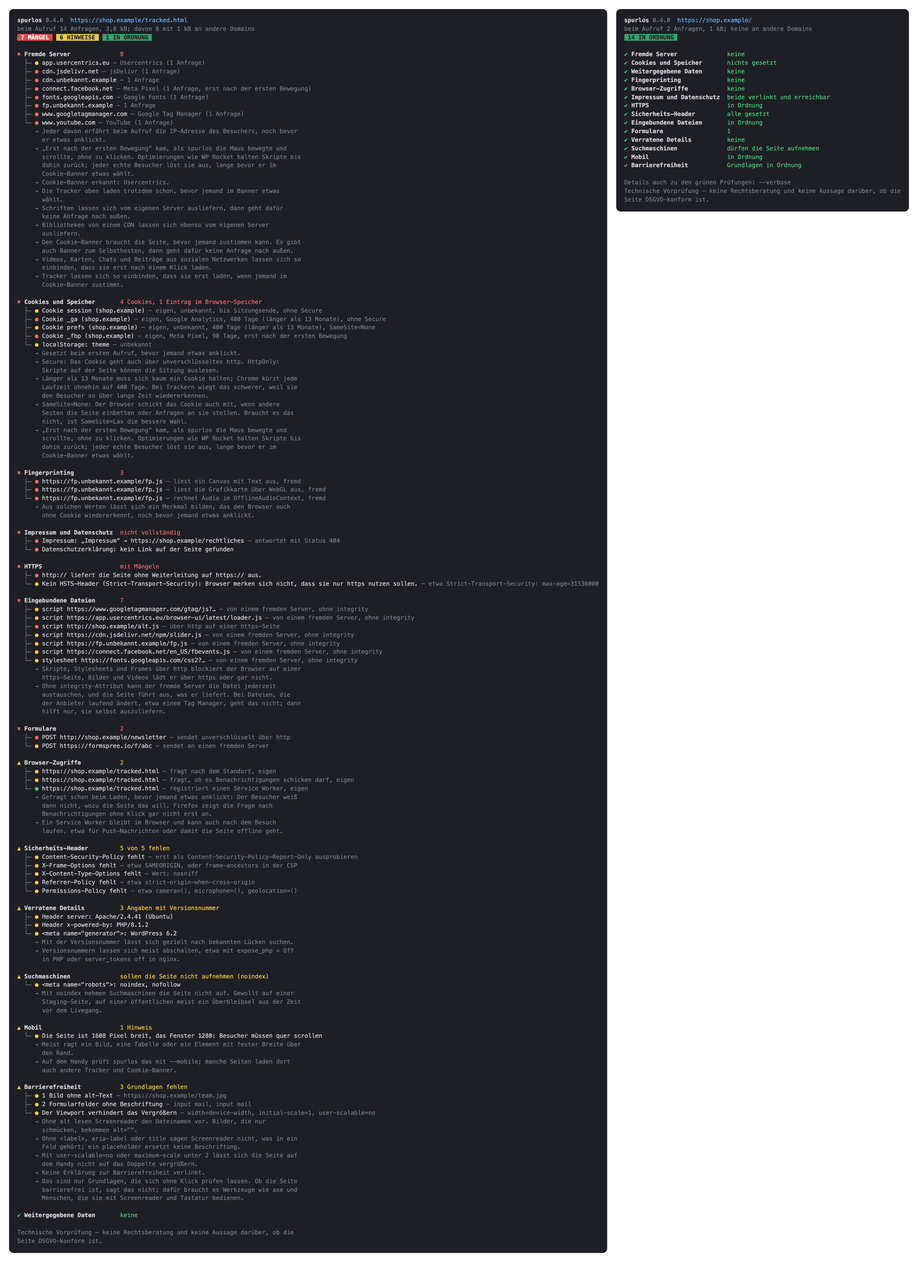
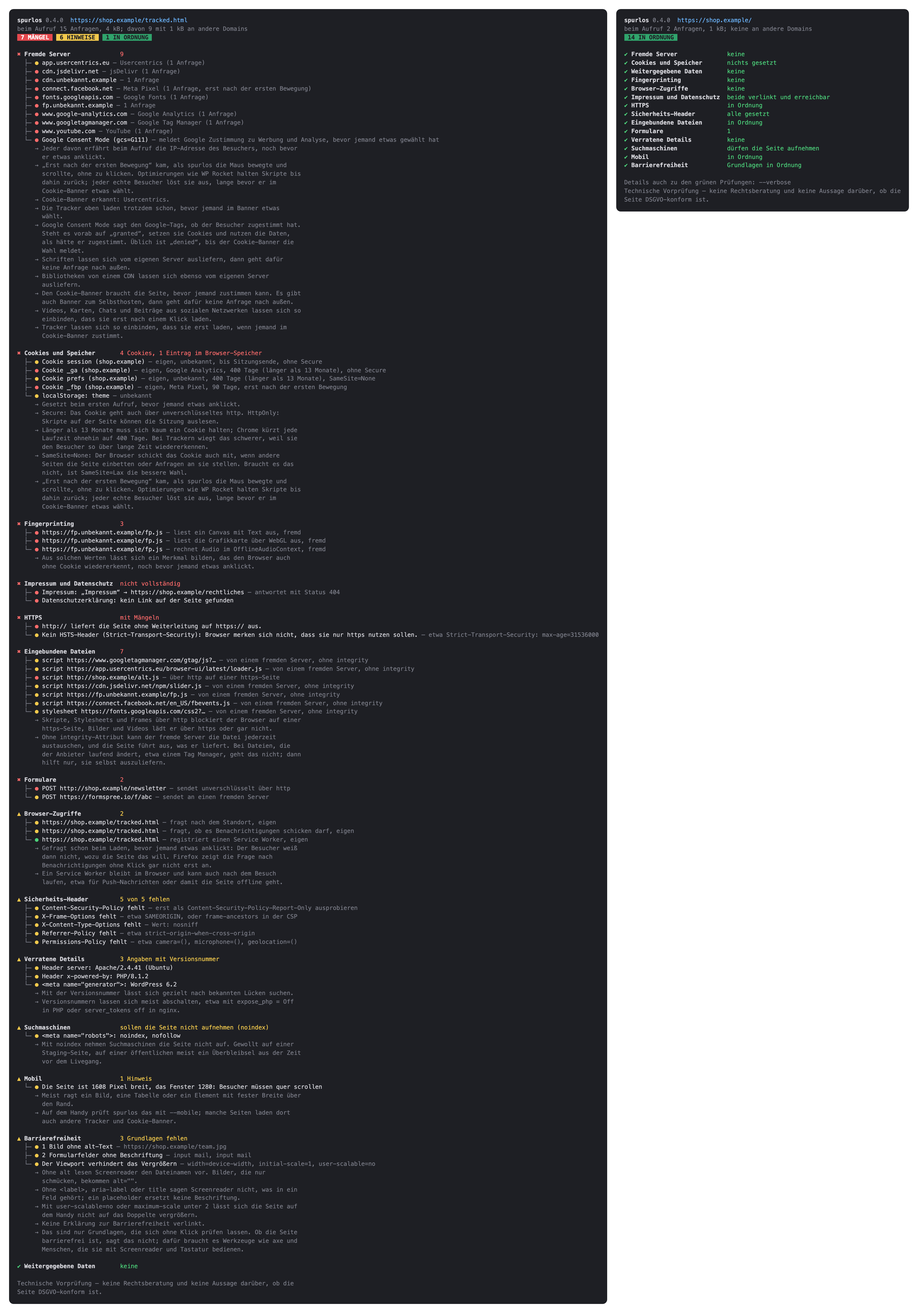
Google Consent Mode: meldet eine Anfrage der Google-Tags vor jedem Klick Zustimmung (gcs=G101, G110, G111), ist das ein roter Befund bei Fremde Server; G100 als Hinweis; in --json als consentMode

Changed region(s): [[0.0311, 0.0, 0.4042, 0.9993], [0.6841, 0.0, 0.9951, 0.1874]]

diff --git a/examples/mit-maengeln.html b/examples/mit-maengeln.html
@@ -50,8 +50,8 @@ footer { margin-top: 28px; padding-top: 12px; border-top: 1px solid var(--line);
 <div class="top">
 <div>
 <h1>https://shop.example/tracked.html</h1>
-<p class="meta">geprüft am 22. November 2026 um 13:15 MEZ</p>
-<p class="meta">beim Aufruf 14 Anfragen, 3,8 kB; davon 8 mit 1 kB an andere Domains</p>
+<p class="meta">geprüft am 22. November 2026 um 13:17 MEZ</p>
+<p class="meta">beim Aufruf 15 Anfragen, 4 kB; davon 9 mit 1 kB an andere Domains</p>
 </div>
 <p class="brand"><svg class="logo light" xmlns="http://www.w3.org/2000/svg" viewBox="0 0 5255.92 1056" role="img" aria-label="spurlos"><title>spurlos</title><g transform="translate(-60.71 -70.67) scale(18.14)"><circle cx="28" cy="28" r="20" fill="none" stroke="#1e1f24" stroke-width="5.5"/><line x1="42.5" y1="42.5" x2="57" y2="57" stroke="#1e1f24" stroke-width="8" stroke-linecap="round"/><circle cx="17.5" cy="28" r="4.6" fill="#e5484d"/><circle cx="28" cy="28" r="4.6" fill="#e0a800"/><circle cx="38.5" cy="28" r="4.6" fill="#1f9d55"/></g><path transform="translate(1195.92 846)" fill="#1e1f24" d="M277 10Q209 10 158 -11.5Q107 -33 78.5 -71Q50 -109 50 -160L200 -160Q200 -136 221.5 -121.5Q243 -107 277 -107L321 -107Q362 -107 383.5 -122Q405 -137 405 -164Q405 -189 386 -202.5Q367 -216 327 -221L263 -229Q160 -242 113 -279Q66 -316 66 -392Q66 -472 121 -516Q176 -560 282 -560L320 -560Q421 -560 481 -516Q541 -472 541 -398L391 -398Q391 -418 371.5 -430.5Q352 -443 320 -443L282 -443Q245 -443 228 -430.5Q211 -418 211 -393Q211 -370 226.5 -358Q242 -346 276 -341L345 -332Q449 -319 499.5 -280Q550 -241 550 -164Q550 -80 492 -35Q434 10 321 10ZM646 180L646 -550L791 -550L791 -445L794 -445Q801 -491 830 -521Q869 -560 937 -560Q1020 -560 1070 -501.5Q1120 -443 1120 -345L1120 -205Q1120 -140 1097.5 -91.5Q1075 -43 1034 -16.5Q993 10 937 10Q869 10 830 -30Q801 -59 794 -105L791 -105L796 30L796 180ZM883 -120Q925 -120 947.5 -143.5Q970 -167 970 -210L970 -340Q970 -384 947.5 -407Q925 -430 883 -430Q842 -430 819 -406.5Q796 -383 796 -340L796 -210Q796 -167 819 -143.5Q842 -120 883 -120ZM1460 10Q1349 10 1286.5 -50Q1224 -110 1224 -214L1224 -550L1374 -550L1374 -215Q1374 -169 1396 -144.5Q1418 -120 1460 -120Q1501 -120 1523.5 -144.5Q1546 -169 1546 -215L1546 -550L1696 -550L1696 -214Q1696 -109 1633 -49.5Q1570 10 1460 10ZM1822 0L1822 -550L1962 -550L1962 -445L1964 -445Q1973 -488 1998 -515Q2039 -560 2118 -560Q2209 -560 2259.5 -505Q2310 -450 2310 -350L2310 -305L2150 -305L2150 -340Q2150 -385 2125.5 -410Q2101 -435 2060 -435Q2017 -435 1994.5 -410Q1972 -385 1972 -340L1972 0ZM2710 0Q2652 0 2608 -24.5Q2564 -49 2539.5 -93Q2515 -137 2515 -195L2515 -595L2345 -595L2345 -730L2665 -730L2665 -195Q2665 -168 2681.5 -151.5Q2698 -135 2725 -135L2885 -135L2885 0ZM3200 10Q3127 10 3073 -17.5Q3019 -45 2989.5 -94.5Q2960 -144 2960 -210L2960 -340Q2960 -406 2989.5 -455.5Q3019 -505 3073 -532.5Q3127 -560 3200 -560Q3274 -560 3327.5 -532.5Q3381 -505 3410.5 -455.5Q3440 -406 3440 -340L3440 -210Q3440 -144 3410.5 -94.5Q3381 -45 3327.5 -17.5Q3274 10 3200 10ZM3200 -120Q3244 -120 3267 -143.5Q3290 -167 3290 -210L3290 -340Q3290 -384 3267 -407Q3244 -430 3200 -430Q3157 -430 3133.5 -407Q3110 -384 3110 -340L3110 -210Q3110 -167 3133.5 -143.5Q3157 -120 3200 -120ZM3757 10Q3689 10 3638 -11.5Q3587 -33 3558.5 -71Q3530 -109 3530 -160L3680 -160Q3680 -136 3701.5 -121.5Q3723 -107 3757 -107L3801 -107Q3842 -107 3863.5 -122Q3885 -137 3885 -164Q3885 -189 3866 -202.5Q3847 -216 3807 -221L3743 -229Q3640 -242 3593 -279Q3546 -316 3546 -392Q3546 -472 3601 -516Q3656 -560 3762 -560L3800 -560Q3901 -560 3961 -516Q4021 -472 4021 -398L3871 -398Q3871 -418 3851.5 -430.5Q3832 -443 3800 -443L3762 -443Q3725 -443 3708 -430.5Q3691 -418 3691 -393Q3691 -370 3706.5 -358Q3722 -346 3756 -341L3825 -332Q3929 -319 3979.5 -280Q4030 -241 4030 -164Q4030 -80 3972 -35Q3914 10 3801 10Z"/></svg>
 <svg class="logo dark" xmlns="http://www.w3.org/2000/svg" viewBox="0 0 5255.92 1056" role="img" aria-label="spurlos"><title>spurlos</title><g transform="translate(-60.71 -70.67) scale(18.14)"><circle cx="28" cy="28" r="20" fill="none" stroke="#e9e9ee" stroke-width="5.5"/><line x1="42.5" y1="42.5" x2="57" y2="57" stroke="#e9e9ee" stroke-width="8" stroke-linecap="round"/><circle cx="17.5" cy="28" r="4.6" fill="#ff6b6b"/><circle cx="28" cy="28" r="4.6" fill="#f2c94c"/><circle cx="38.5" cy="28" r="4.6" fill="#4cd17a"/></g><path transform="translate(1195.92 846)" fill="#e9e9ee" d="M277 10Q209 10 158 -11.5Q107 -33 78.5 -71Q50 -109 50 -160L200 -160Q200 -136 221.5 -121.5Q243 -107 277 -107L321 -107Q362 -107 383.5 -122Q405 -137 405 -164Q405 -189 386 -202.5Q367 -216 327 -221L263 -229Q160 -242 113 -279Q66 -316 66 -392Q66 -472 121 -516Q176 -560 282 -560L320 -560Q421 -560 481 -516Q541 -472 541 -398L391 -398Q391 -418 371.5 -430.5Q352 -443 320 -443L282 -443Q245 -443 228 -430.5Q211 -418 211 -393Q211 -370 226.5 -358Q242 -346 276 -341L345 -332Q449 -319 499.5 -280Q550 -241 550 -164Q550 -80 492 -35Q434 10 321 10ZM646 180L646 -550L791 -550L791 -445L794 -445Q801 -491 830 -521Q869 -560 937 -560Q1020 -560 1070 -501.5Q1120 -443 1120 -345L1120 -205Q1120 -140 1097.5 -91.5Q1075 -43 1034 -16.5Q993 10 937 10Q869 10 830 -30Q801 -59 794 -105L791 -105L796 30L796 180ZM883 -120Q925 -120 947.5 -143.5Q970 -167 970 -210L970 -340Q970 -384 947.5 -407Q925 -430 883 -430Q842 -430 819 -406.5Q796 -383 796 -340L796 -210Q796 -167 819 -143.5Q842 -120 883 -120ZM1460 10Q1349 10 1286.5 -50Q1224 -110 1224 -214L1224 -550L1374 -550L1374 -215Q1374 -169 1396 -144.5Q1418 -120 1460 -120Q1501 -120 1523.5 -144.5Q1546 -169 1546 -215L1546 -550L1696 -550L1696 -214Q1696 -109 1633 -49.5Q1570 10 1460 10ZM1822 0L1822 -550L1962 -550L1962 -445L1964 -445Q1973 -488 1998 -515Q2039 -560 2118 -560Q2209 -560 2259.5 -505Q2310 -450 2310 -350L2310 -305L2150 -305L2150 -340Q2150 -385 2125.5 -410Q2101 -435 2060 -435Q2017 -435 1994.5 -410Q1972 -385 1972 -340L1972 0ZM2710 0Q2652 0 2608 -24.5Q2564 -49 2539.5 -93Q2515 -137 2515 -195L2515 -595L2345 -595L2345 -730L2665 -730L2665 -195Q2665 -168 2681.5 -151.5Q2698 -135 2725 -135L2885 -135L2885 0ZM3200 10Q3127 10 3073 -17.5Q3019 -45 2989.5 -94.5Q2960 -144 2960 -210L2960 -340Q2960 -406 2989.5 -455.5Q3019 -505 3073 -532.5Q3127 -560 3200 -560Q3274 -560 3327.5 -532.5Q3381 -505 3410.5 -455.5Q3440 -406 3440 -340L3440 -210Q3440 -144 3410.5 -94.5Q3381 -45 3327.5 -17.5Q3274 10 3200 10ZM3200 -120Q3244 -120 3267 -143.5Q3290 -167 3290 -210L3290 -340Q3290 -384 3267 -407Q3244 -430 3200 -430Q3157 -430 3133.5 -407Q3110 -384 3110 -340L3110 -210Q3110 -167 3133.5 -143.5Q3157 -120 3200 -120ZM3757 10Q3689 10 3638 -11.5Q3587 -33 3558.5 -71Q3530 -109 3530 -160L3680 -160Q3680 -136 3701.5 -121.5Q3723 -107 3757 -107L3801 -107Q3842 -107 3863.5 -122Q3885 -137 3885 -164Q3885 -189 3866 -202.5Q3847 -216 3807 -221L3743 -229Q3640 -242 3593 -279Q3546 -316 3546 -392Q3546 -472 3601 -516Q3656 -560 3762 -560L3800 -560Q3901 -560 3961 -516Q4021 -472 4021 -398L3871 -398Q3871 -418 3851.5 -430.5Q3832 -443 3800 -443L3762 -443Q3725 -443 3708 -430.5Q3691 -418 3691 -393Q3691 -370 3706.5 -358Q3722 -346 3756 -341L3825 -332Q3929 -319 3979.5 -280Q4030 -241 4030 -164Q4030 -80 3972 -35Q3914 10 3801 10Z"/></svg>
@@ -59,7 +59,7 @@ footer { margin-top: 28px; padding-top: 12px; border-top: 1px solid var(--line);
 </div>
 <p class="summary"><span class="badge red">7 Mängel</span> <span class="badge yellow">6 Hinweise</span> <span class="badge green">1 in Ordnung</span></p>
 </header>
-<details class="check red" open><summary class="head"><span class="mark">✖</span><span class="title">Fremde Server</span><span class="value">8</span></summary><ul><li class="yellow">app.usercentrics.eu<span class="detail"> – Usercentrics (1 Anfrage)</span></li><li class="red">cdn.jsdelivr.net<span class="detail"> – jsDelivr (1 Anfrage)</span></li><li class="red">cdn.unbekannt.example<span class="detail"> – 1 Anfrage</span></li><li class="red">connect.facebook.net<span class="detail"> – Meta Pixel (1 Anfrage, erst nach der ersten Bewegung)</span></li><li class="red">fonts.googleapis.com<span class="detail"> – Google Fonts (1 Anfrage)</span></li><li class="red">fp.unbekannt.example<span class="detail"> – 1 Anfrage</span></li><li class="red">www.googletagmanager.com<span class="detail"> – Google Tag Manager (1 Anfrage)</span></li><li class="red">www.youtube.com<span class="detail"> – YouTube (1 Anfrage)</span></li></ul><p class="note">Jeder davon erfährt beim Aufruf die IP-Adresse des Besuchers, noch bevor er etwas anklickt.</p><p class="note">„Erst nach der ersten Bewegung“ kam, als spurlos die Maus bewegte und scrollte, ohne zu klicken. Optimierungen wie WP Rocket halten Skripte bis dahin zurück; jeder echte Besucher löst sie aus, lange bevor er im Cookie-Banner etwas wählt.</p><p class="note">Cookie-Banner erkannt: Usercentrics.</p><p class="note">Die Tracker oben laden trotzdem schon, bevor jemand im Banner etwas wählt.</p><p class="note">Schriften lassen sich vom eigenen Server ausliefern, dann geht dafür keine Anfrage nach außen.</p><p class="note">Bibliotheken von einem CDN lassen sich ebenso vom eigenen Server ausliefern.</p><p class="note">Den Cookie-Banner braucht die Seite, bevor jemand zustimmen kann. Es gibt auch Banner zum Selbsthosten, dann geht dafür keine Anfrage nach außen.</p><p class="note">Videos, Karten, Chats und Beiträge aus sozialen Netzwerken lassen sich so einbinden, dass sie erst nach einem Klick laden.</p><p class="note">Tracker lassen sich so einbinden, dass sie erst laden, wenn jemand im Cookie-Banner zustimmt.</p></details>
+<details class="check red" open><summary class="head"><span class="mark">✖</span><span class="title">Fremde Server</span><span class="value">9</span></summary><ul><li class="yellow">app.usercentrics.eu<span class="detail"> – Usercentrics (1 Anfrage)</span></li><li class="red">cdn.jsdelivr.net<span class="detail"> – jsDelivr (1 Anfrage)</span></li><li class="red">cdn.unbekannt.example<span class="detail"> – 1 Anfrage</span></li><li class="red">connect.facebook.net<span class="detail"> – Meta Pixel (1 Anfrage, erst nach der ersten Bewegung)</span></li><li class="red">fonts.googleapis.com<span class="detail"> – Google Fonts (1 Anfrage)</span></li><li class="red">fp.unbekannt.example<span class="detail"> – 1 Anfrage</span></li><li class="red">www.google-analytics.com<span class="detail"> – Google Analytics (1 Anfrage)</span></li><li class="red">www.googletagmanager.com<span class="detail"> – Google Tag Manager (1 Anfrage)</span></li><li class="red">www.youtube.com<span class="detail"> – YouTube (1 Anfrage)</span></li><li class="red">Google Consent Mode (gcs=G111)<span class="detail"> – meldet Google Zustimmung zu Werbung und Analyse, bevor jemand etwas gewählt hat</span></li></ul><p class="note">Jeder davon erfährt beim Aufruf die IP-Adresse des Besuchers, noch bevor er etwas anklickt.</p><p class="note">„Erst nach der ersten Bewegung“ kam, als spurlos die Maus bewegte und scrollte, ohne zu klicken. Optimierungen wie WP Rocket halten Skripte bis dahin zurück; jeder echte Besucher löst sie aus, lange bevor er im Cookie-Banner etwas wählt.</p><p class="note">Cookie-Banner erkannt: Usercentrics.</p><p class="note">Die Tracker oben laden trotzdem schon, bevor jemand im Banner etwas wählt.</p><p class="note">Google Consent Mode sagt den Google-Tags, ob der Besucher zugestimmt hat. Steht es vorab auf „granted“, setzen sie Cookies und nutzen die Daten, als hätte er zugestimmt. Üblich ist „denied“, bis der Cookie-Banner die Wahl meldet.</p><p class="note">Schriften lassen sich vom eigenen Server ausliefern, dann geht dafür keine Anfrage nach außen.</p><p class="note">Bibliotheken von einem CDN lassen sich ebenso vom eigenen Server ausliefern.</p><p class="note">Den Cookie-Banner braucht die Seite, bevor jemand zustimmen kann. Es gibt auch Banner zum Selbsthosten, dann geht dafür keine Anfrage nach außen.</p><p class="note">Videos, Karten, Chats und Beiträge aus sozialen Netzwerken lassen sich so einbinden, dass sie erst nach einem Klick laden.</p><p class="note">Tracker lassen sich so einbinden, dass sie erst laden, wenn jemand im Cookie-Banner zustimmt.</p></details>
 <details class="check red" open><summary class="head"><span class="mark">✖</span><span class="title">Cookies und Speicher</span><span class="value">4 Cookies, 1 Eintrag im Browser-Speicher</span></summary><ul><li class="yellow">Cookie session (shop.example)<span class="detail"> – eigen, unbekannt, bis Sitzungsende, ohne Secure</span></li><li class="red">Cookie _ga (shop.example)<span class="detail"> – eigen, Google Analytics, 400 Tage (länger als 13 Monate), ohne Secure</span></li><li class="yellow">Cookie prefs (shop.example)<span class="detail"> – eigen, unbekannt, 400 Tage (länger als 13 Monate), SameSite=None</span></li><li class="red">Cookie _fbp (shop.example)<span class="detail"> – eigen, Meta Pixel, 90 Tage, erst nach der ersten Bewegung</span></li><li class="yellow">localStorage: theme<span class="detail"> – unbekannt</span></li></ul><p class="note">Gesetzt beim ersten Aufruf, bevor jemand etwas anklickt.</p><p class="note">Secure: Das Cookie geht auch über unverschlüsseltes http. HttpOnly: Skripte auf der Seite können die Sitzung auslesen.</p><p class="note">Länger als 13 Monate muss sich kaum ein Cookie halten; Chrome kürzt jede Laufzeit ohnehin auf 400 Tage. Bei Trackern wiegt das schwerer, weil sie den Besucher so über lange Zeit wiedererkennen.</p><p class="note">SameSite=None: Der Browser schickt das Cookie auch mit, wenn andere Seiten die Seite einbetten oder Anfragen an sie stellen. Braucht es das nicht, ist SameSite=Lax die bessere Wahl.</p><p class="note">„Erst nach der ersten Bewegung“ kam, als spurlos die Maus bewegte und scrollte, ohne zu klicken. Optimierungen wie WP Rocket halten Skripte bis dahin zurück; jeder echte Besucher löst sie aus, lange bevor er im Cookie-Banner etwas wählt.</p></details>
 <details class="check red" open><summary class="head"><span class="mark">✖</span><span class="title">Fingerprinting</span><span class="value">3</span></summary><ul><li class="red">https://fp.unbekannt.example/fp.js<span class="detail"> – liest ein Canvas mit Text aus, fremd</span></li><li class="red">https://fp.unbekannt.example/fp.js<span class="detail"> – liest die Grafikkarte über WebGL aus, fremd</span></li><li class="red">https://fp.unbekannt.example/fp.js<span class="detail"> – rechnet Audio im OfflineAudioContext, fremd</span></li></ul><p class="note">Aus solchen Werten lässt sich ein Merkmal bilden, das den Browser auch ohne Cookie wiedererkennt, noch bevor jemand etwas anklickt.</p></details>
 <details class="check red" open><summary class="head"><span class="mark">✖</span><span class="title">Impressum und Datenschutz</span><span class="value">nicht vollständig</span></summary><ul><li class="red">Impressum: „Impressum“ → https://shop.example/rechtliches<span class="detail"> – antwortet mit Status 404</span></li><li class="red">Datenschutzerklärung: kein Link auf der Seite gefunden</li></ul></details>

diff --git a/src/checks.ts b/src/checks.ts
@@ -22,6 +22,11 @@ export type OwnReason = 'option' | 'certificate' | 'name' | 'platform'
  * preconnect: no request went to it, the page only opened a connection ahead (<link rel="preconnect">, Link header) ·
  * afterMove: every request to it came only once spurlos moved the mouse and scrolled
  */
+/**
+ * What Google Consent Mode tells Google's tags before any click, by gcs=G1<ads><analytics> in their requests: 1 for
+ * granted, 0 for denied. Present only where the page uses Consent Mode.
+ */
+export type ConsentMode = { gcs: string; ads: 'granted' | 'denied'; analytics: 'granted' | 'denied' }
 export type ThirdParty = { host: string; service: Service | undefined; requests: number; own?: OwnReason; preconnect?: true; afterMove?: true }
 /**
  * missing: attributes the cookie should have – Secure on an https page, HttpOnly for a session cookie ·
@@ -55,7 +60,7 @@ export type AccessibilityProblem = 'lang' | 'images' | 'fields' | 'zoom'
 export type MobileProblem = 'viewport' | 'overflow'
 
 export type Result =
-  | { check: 'third-party'; level: Level; hosts: ThirdParty[]; consent: string[]; selfHosted: string[]; platform?: string }
+  | { check: 'third-party'; level: Level; hosts: ThirdParty[]; consent: string[]; selfHosted: string[]; platform?: string; consentMode?: ConsentMode }
   | { check: 'cookies'; level: Level; cookies: CookieFinding[]; storage: StorageFinding[] }
   | { check: 'legal'; level: Level; pages: LegalPage[] }
   | { check: 'https'; level: Level; https: boolean; certDaysLeft?: number; http?: HttpRedirect; hsts: boolean }
@@ -225,6 +230,34 @@ export function preconnects(scan: Scan): string[] {
 }
 
 /**
+ * The consent state Google's tags send, of every request with gcs=G1xx: on the page's own site too, where a tag server
+ * of its own (server-side tagging) takes them. Of several, the one that grants most, as anything granted before a click
+ * is too much.
+ */
+export function consentMode(scan: Scan): ConsentMode | undefined {
+  let found: ConsentMode | undefined
+  let most = -1
+  for (const r of list(scan.requests)) {
+    let gcs: string | null = null
+    try {
+      gcs = new URL(r.url).searchParams.get('gcs')
+    } catch {
+      // a STUN server, say: no query
+    }
+    const m = /^G1([01])([01])$/.exec(gcs ?? '')
+    if (!gcs || !m) continue
+    const granted = (m[1] === '1' ? 1 : 0) + (m[2] === '1' ? 1 : 0)
+    if (granted <= most) continue
+    most = granted
+    found = { gcs, ads: m[1] === '1' ? 'granted' : 'denied', analytics: m[2] === '1' ? 'granted' : 'denied' }
+  }
+  return found
+}
+
+/** Consent Mode granting anything before a click is red: Google's tags then set cookies and use the data as if agreed. */
+export const consentModeGranted = (c: ConsentMode | undefined): boolean => c !== undefined && (c.ads === 'granted' || c.analytics === 'granted')
+
+/**
  * Every request to another site than the page's own counts. A host no name gives away may by the path asked for
  * (/matomo.php on an agency's server). selfHosted: known services the page runs on its own site, by their paths (a
  * Sentry or Matomo of its own); they change no light, as the IP stays with the site, but the reader learns of them.
@@ -261,7 +294,9 @@ export function thirdParty(scan: Scan): Result {
     })
     .sort((a, b) => a.host.localeCompare(b.host))
   const platform = platformOf(scan)
-  return { check: 'third-party', level: worst(hosts.map(hostLevel)), hosts, consent: consentManagers(scan), selfHosted: [...selfHosted], ...(platform ? { platform: platform.name } : {}) }
+  const mode = consentMode(scan)
+  const level = worst([...hosts.map(hostLevel), ...(consentModeGranted(mode) ? ['red' as const] : [])])
+  return { check: 'third-party', level, hosts, consent: consentManagers(scan), selfHosted: [...selfHosted], ...(platform ? { platform: platform.name } : {}), ...(mode ? { consentMode: mode } : {}) }
 }
 
 const ok = (v: Visit | undefined) => v !== undefined && 'status' in v && v.status >= 200 && v.status < 300
@@ -718,6 +753,7 @@ export function runChecks(scan: Scan, now = Date.now()): Result[] {
 export const key = {
   /** hosts of a known service share one key: see hostKey */
   host: (host: string) => `third-party ${hostKey(host)}`,
+  consentMode: 'consent-mode granted',
   cookie: (c: { name: string; domain: string }) => `cookie ${c.name} ${c.domain}`,
   storage: (e: { area: string; key: string }) => `storage ${e.area} ${e.key}`,
   legal: (kind: LegalKind) => `legal ${kind}`,
@@ -775,7 +811,7 @@ function unnumbered(r: Result): Finding[] {
       // the hosts of one service are one finding, at their worst
       const byKey = new Map<string, Level[]>()
       for (const h of list(r.hosts)) byKey.set(key.host(h.host), [...(byKey.get(key.host(h.host)) ?? []), hostLevel(h)])
-      return [...byKey].map(([k, levels]) => ({ key: k, level: worst(levels) }))
+      return [...[...byKey].map(([k, levels]) => ({ key: k, level: worst(levels) })), ...(consentModeGranted(r.consentMode) ? [{ key: key.consentMode, level: 'red' as const }] : [])]
     case 'cookies':
       return [
         ...list(r.cookies).map(c => ({ key: key.cookie(c), level: cookieLevel({ ...c, missing: list(c.missing) }) })),

diff --git a/examples/sauber.html b/examples/sauber.html
@@ -50,7 +50,7 @@ footer { margin-top: 28px; padding-top: 12px; border-top: 1px solid var(--line);
 <div class="top">
 <div>
 <h1>https://shop.example/</h1>
-<p class="meta">geprüft am 22. November 2026 um 13:15 MEZ</p>
+<p class="meta">geprüft am 22. November 2026 um 13:17 MEZ</p>
 <p class="meta">beim Aufruf 2 Anfragen, 1 kB; keine an andere Domains</p>
 </div>
 <p class="brand"><svg class="logo light" xmlns="http://www.w3.org/2000/svg" viewBox="0 0 5255.92 1056" role="img" aria-label="spurlos"><title>spurlos</title><g transform="translate(-60.71 -70.67) scale(18.14)"><circle cx="28" cy="28" r="20" fill="none" stroke="#1e1f24" stroke-width="5.5"/><line x1="42.5" y1="42.5" x2="57" y2="57" stroke="#1e1f24" stroke-width="8" stroke-linecap="round"/><circle cx="17.5" cy="28" r="4.6" fill="#e5484d"/><circle cx="28" cy="28" r="4.6" fill="#e0a800"/><circle cx="38.5" cy="28" r="4.6" fill="#1f9d55"/></g><path transform="translate(1195.92 846)" fill="#1e1f24" d="M277 10Q209 10 158 -11.5Q107 -33 78.5 -71Q50 -109 50 -160L200 -160Q200 -136 221.5 -121.5Q243 -107 277 -107L321 -107Q362 -107 383.5 -122Q405 -137 405 -164Q405 -189 386 -202.5Q367 -216 327 -221L263 -229Q160 -242 113 -279Q66 -316 66 -392Q66 -472 121 -516Q176 -560 282 -560L320 -560Q421 -560 481 -516Q541 -472 541 -398L391 -398Q391 -418 371.5 -430.5Q352 -443 320 -443L282 -443Q245 -443 228 -430.5Q211 -418 211 -393Q211 -370 226.5 -358Q242 -346 276 -341L345 -332Q449 -319 499.5 -280Q550 -241 550 -164Q550 -80 492 -35Q434 10 321 10ZM646 180L646 -550L791 -550L791 -445L794 -445Q801 -491 830 -521Q869 -560 937 -560Q1020 -560 1070 -501.5Q1120 -443 1120 -345L1120 -205Q1120 -140 1097.5 -91.5Q1075 -43 1034 -16.5Q993 10 937 10Q869 10 830 -30Q801 -59 794 -105L791 -105L796 30L796 180ZM883 -120Q925 -120 947.5 -143.5Q970 -167 970 -210L970 -340Q970 -384 947.5 -407Q925 -430 883 -430Q842 -430 819 -406.5Q796 -383 796 -340L796 -210Q796 -167 819 -143.5Q842 -120 883 -120ZM1460 10Q1349 10 1286.5 -50Q1224 -110 1224 -214L1224 -550L1374 -550L1374 -215Q1374 -169 1396 -144.5Q1418 -120 1460 -120Q1501 -120 1523.5 -144.5Q1546 -169 1546 -215L1546 -550L1696 -550L1696 -214Q1696 -109 1633 -49.5Q1570 10 1460 10ZM1822 0L1822 -550L1962 -550L1962 -445L1964 -445Q1973 -488 1998 -515Q2039 -560 2118 -560Q2209 -560 2259.5 -505Q2310 -450 2310 -350L2310 -305L2150 -305L2150 -340Q2150 -385 2125.5 -410Q2101 -435 2060 -435Q2017 -435 1994.5 -410Q1972 -385 1972 -340L1972 0ZM2710 0Q2652 0 2608 -24.5Q2564 -49 2539.5 -93Q2515 -137 2515 -195L2515 -595L2345 -595L2345 -730L2665 -730L2665 -195Q2665 -168 2681.5 -151.5Q2698 -135 2725 -135L2885 -135L2885 0ZM3200 10Q3127 10 3073 -17.5Q3019 -45 2989.5 -94.5Q2960 -144 2960 -210L2960 -340Q2960 -406 2989.5 -455.5Q3019 -505 3073 -532.5Q3127 -560 3200 -560Q3274 -560 3327.5 -532.5Q3381 -505 3410.5 -455.5Q3440 -406 3440 -340L3440 -210Q3440 -144 3410.5 -94.5Q3381 -45 3327.5 -17.5Q3274 10 3200 10ZM3200 -120Q3244 -120 3267 -143.5Q3290 -167 3290 -210L3290 -340Q3290 -384 3267 -407Q3244 -430 3200 -430Q3157 -430 3133.5 -407Q3110 -384 3110 -340L3110 -210Q3110 -167 3133.5 -143.5Q3157 -120 3200 -120ZM3757 10Q3689 10 3638 -11.5Q3587 -33 3558.5 -71Q3530 -109 3530 -160L3680 -160Q3680 -136 3701.5 -121.5Q3723 -107 3757 -107L3801 -107Q3842 -107 3863.5 -122Q3885 -137 3885 -164Q3885 -189 3866 -202.5Q3847 -216 3807 -221L3743 -229Q3640 -242 3593 -279Q3546 -316 3546 -392Q3546 -472 3601 -516Q3656 -560 3762 -560L3800 -560Q3901 -560 3961 -516Q4021 -472 4021 -398L3871 -398Q3871 -418 3851.5 -430.5Q3832 -443 3800 -443L3762 -443Q3725 -443 3708 -430.5Q3691 -418 3691 -393Q3691 -370 3706.5 -358Q3722 -346 3756 -341L3825 -332Q3929 -319 3979.5 -280Q4030 -241 4030 -164Q4030 -80 3972 -35Q3914 10 3801 10Z"/></svg>

diff --git a/src/report.ts b/src/report.ts
@@ -1,5 +1,5 @@
 import {
-  certLevel, load, cookieLevel, leakLevel, accessLevel, fingerprintLevel, legalBlocked, SEVERITY, disclosureLevel, formLevel, httpLevel, hostLevel, key, legalLevel, numbered, resourceLevel, storageLevel, withoutQuery,
+  certLevel, consentModeGranted, load, cookieLevel, leakLevel, accessLevel, fingerprintLevel, legalBlocked, SEVERITY, disclosureLevel, formLevel, httpLevel, hostLevel, key, legalLevel, numbered, resourceLevel, storageLevel, withoutQuery,
   type Comparison, type Level, type Result,
 } from './checks.ts'
 import { readFileSync } from 'node:fs'
@@ -61,7 +61,12 @@ function unkeyed(t: Messages, r: Result, now: number): Section {
       const consent = r.consent.length ? [t.consentFound(r.consent.join(', ')), ...(trackers ? [t.consentButTrackers] : [])] : trackers ? [t.consentNone] : []
       // a baseline from an older spurlos has none
       const selfHosted = r.selfHosted?.length ? [t.selfHosted(r.selfHosted.join(', '))] : []
-      if (!r.hosts.length) return { value: t.none, items: [], notes: [t.thirdPartyNone, ...selfHosted, ...consent] }
+      // what Google's tags were told of the visitor's consent; a baseline from an older spurlos has none
+      const mode = r.consentMode
+      const granted = consentModeGranted(mode)
+      const modeItems = mode && granted ? [item(key.consentMode, 'red', `Google Consent Mode (gcs=${mode.gcs})`, t.consentModeGranted(mode.ads === 'granted', mode.analytics === 'granted'))] : []
+      const modeNotes = mode ? [granted ? t.consentModeGrantedNote : t.consentModeDenied(mode.gcs)] : []
+      if (!r.hosts.length) return { value: t.none, items: modeItems, notes: [t.thirdPartyNone, ...modeNotes, ...selfHosted, ...consent] }
       const hints = [
         categories.has('fonts') ? t.thirdPartyHint.fonts : null,
         categories.has('cdn') ? t.thirdPartyHint.cdn : null,
@@ -76,7 +81,7 @@ function unkeyed(t: Messages, r: Result, now: number): Section {
           const about = [h.service?.name, h.own ? t.ownBy[h.own] : undefined].filter(Boolean).join(', ') || undefined
           const count = h.preconnect ? t.preconnectOnly : t.requests(h.requests) + (h.afterMove ? `, ${t.afterMove}` : '')
           return item(key.host(h.host), hostLevel(h), h.host, about ? `${about} (${count})` : count)
-        }),
+        }).concat(modeItems),
         notes: [
           t.thirdParty,
           ...(r.platform && r.hosts.some(h => h.own === 'platform') ? [t.platformNote(r.platform)] : []),
@@ -85,6 +90,7 @@ function unkeyed(t: Messages, r: Result, now: number): Section {
           ...(r.hosts.some(h => h.afterMove) ? [t.afterMoveNote] : []),
           ...selfHosted,
           ...consent,
+          ...modeNotes,
           ...hints.filter(n => n !== null),
         ],
       }

diff --git a/test/checks.test.ts b/test/checks.test.ts
@@ -1,6 +1,6 @@
 import { describe, expect, test } from 'vitest'
 import {
-  access, accessibility, blocksZoom, indexing, compare, mobile, carried, leaks, load, consentManagers, preconnects, cookies, disclosure, findings, fingerprinting, forms, headers, https, legal, legalLinks, resources, serviceOfCookie, serviceOfStorage, serviceOfHost,
+  access, accessibility, blocksZoom, indexing, consentMode, compare, mobile, carried, leaks, load, consentManagers, preconnects, cookies, disclosure, findings, fingerprinting, forms, headers, https, legal, legalLinks, resources, serviceOfCookie, serviceOfStorage, serviceOfHost,
   thirdParty, weakCsp, type Result,
 } from '../src/checks.ts'
 import { iceHost, type Scan, type Visit } from '../src/scan.ts'
@@ -733,5 +733,27 @@ describe('indexing', () => {
   test('index, nofollow and other rules are green', () => {
     expect(indexing({ ...base, headers: { 'x-robots-tag': 'noarchive, max-snippet:-1' }, metaRobots: 'index, nofollow' })).toEqual({ check: 'indexing', level: 'green', noindex: [] })
     expect(indexing(base).level).toBe('green')
+  })
+})
+
+describe('consent mode', () => {
+  const ga = (gcs: string, host = 'www.google-analytics.com') => ({ url: `https://${host}/g/collect?v=2&tid=G-X&gcs=${gcs}`, host, type: 'ping' })
+
+  test('denied before any click is a note, no finding', () => {
+    const r = thirdParty({ ...base, requests: [ga('G100')] })
+    if (r.check !== 'third-party') throw new Error()
+    expect(r.consentMode).toEqual({ gcs: 'G100', ads: 'denied', analytics: 'denied' })
+    expect(findings(r).map(f => f.key)).toEqual(['third-party google-analytics.com'])
+  })
+
+  test('anything granted before a click is red, the most granted of several counts, also on a tag server of the page', () => {
+    expect(consentMode({ ...base, requests: [ga('G100'), ga('G101'), ga('G100')] })).toEqual({ gcs: 'G101', ads: 'denied', analytics: 'granted' })
+    const r = thirdParty({ ...base, requests: [ga('G111', 'sgtm.firma.de')] })
+    expect(r.level).toBe('red')
+    expect(findings(r)).toEqual([{ key: 'consent-mode granted', level: 'red' }])
+  })
+
+  test('without gcs, or with another value, there is none', () => {
+    expect(consentMode({ ...base, requests: [ga('G2'), req('www.google-analytics.com'), { url: 'stun:stun.l.google.com:19302', host: 'stun.l.google.com', type: 'webrtc' }] })).toBeUndefined()
   })
 })

diff --git a/src/mcp.ts b/src/mcp.ts
@@ -19,7 +19,7 @@ const TOOL = {
   title: 'spurlos: check a website',
   description:
     'Opens a website in a fresh browser like a first-time visitor who clicks nothing, and reports what happens before any consent: ' +
-    'requests to third-party servers, which cookie banner loads, cookies and browser storage, email addresses or values of the page address sent to third parties, scripts that fingerprint the browser or ask for permissions on load, whether Impressum and privacy policy are ' +
+    'requests to third-party servers, which cookie banner loads and what Google Consent Mode reports, cookies and browser storage, email addresses or values of the page address sent to third parties, scripts that fingerprint the browser or ask for permissions on load, whether Impressum and privacy policy are ' +
     'linked and reachable, HTTPS and certificate, security headers and how tight the CSP is, files embedded over http or without ' +
     'integrity, where forms send to, software versions the site discloses, whether it tells search engines noindex, accessibility basics, and how much the page loads. ' +
     'Each check gets a traffic light (red, yellow, green). Passive only: it loads the page, opens the legal pages via their links ' +

diff --git a/src/lang/en.ts b/src/lang/en.ts
@@ -128,6 +128,9 @@ Does spurlos help you? https://ko-fi.com/mmohrx`,
   selfHosted: names => `Found on the site’s own servers: ${names}. The IP address stays with the site.`,
   consentFound: names => `Cookie banner found: ${names}.`,
   consentButTrackers: 'The trackers above still load before anyone chooses anything in the banner.',
+  consentModeGranted: (ads, analytics) => `tells Google consent was given for ${ads && analytics ? 'ads and analytics' : ads ? 'ads' : 'analytics'} before anyone chose anything`,
+  consentModeGrantedNote: 'Google Consent Mode tells Google\'s tags whether the visitor agreed. Set to “granted” up front, they set cookies and use the data as if the visitor had agreed. The usual default is “denied” until the cookie banner reports the choice.',
+  consentModeDenied: gcs => `Google Consent Mode reports ads and analytics as denied (gcs=${gcs}). Google's tags still send requests, without cookies, and learn the IP address that way.`,
   consentNone: 'No known cookie banner found.',
   ownBy: {
     option: 'belongs to the site per --own',

diff --git a/src/lang/de.ts b/src/lang/de.ts
@@ -132,6 +132,9 @@ Hilft dir spurlos? https://ko-fi.com/mmohrx`,
   consentFound: (names: string) => `Cookie-Banner erkannt: ${names}.`,
   consentButTrackers: 'Die Tracker oben laden trotzdem schon, bevor jemand im Banner etwas wählt.',
   consentNone: 'Keinen bekannten Cookie-Banner erkannt.',
+  consentModeGranted: (ads: boolean, analytics: boolean) => `meldet Google Zustimmung zu ${ads && analytics ? 'Werbung und Analyse' : ads ? 'Werbung' : 'Analyse'}, bevor jemand etwas gewählt hat`,
+  consentModeGrantedNote: 'Google Consent Mode sagt den Google-Tags, ob der Besucher zugestimmt hat. Steht es vorab auf „granted“, setzen sie Cookies und nutzen die Daten, als hätte er zugestimmt. Üblich ist „denied“, bis der Cookie-Banner die Wahl meldet.',
+  consentModeDenied: (gcs: string) => `Google Consent Mode meldet Werbung und Analyse als abgelehnt (gcs=${gcs}). Die Google-Tags senden trotzdem schon, ohne Cookies, und erfahren dabei die IP-Adresse.`,
   ownBy: {
     option: 'gehört laut --own zur Seite',
     certificate: 'gehört laut Zertifikat zur Seite',

diff --git a/test/scan.test.ts b/test/scan.test.ts
@@ -120,6 +120,7 @@ describe('scan', { timeout: 30_000 }, () => {
     // held back by the cookie banner: it does not run, so it is no finding
     expect(res.findings.some(f => f.url.includes('maps.googleapis.com'))).toBe(false)
     expect(pick(results, 'third-party').consent).toEqual(['Usercentrics'])
+    expect(pick(results, 'third-party').consentMode).toEqual({ gcs: 'G111', ads: 'granted', analytics: 'granted' })
     // the banner yellow, the trackers red
     const hostLights = Object.fromEntries(third.hosts.map(h => [h.host, hostLevel(h)]))
     expect(hostLights).toMatchObject({ 'app.usercentrics.eu': 'yellow', 'www.googletagmanager.com': 'red', 'fonts.googleapis.com': 'red' })

diff --git a/test/sites/tracked.html b/test/sites/tracked.html
@@ -25,6 +25,8 @@
       document.head.append(pixel)
       document.cookie = '_fbp=fb.1.123.456; max-age=7776000; path=/; Secure'
     }, { once: true })
+    // Google Consent Mode set to granted before anyone chose anything
+    new Image().src = 'https://www.google-analytics.com/g/collect?v=2&tid=G-TEST&gcs=G111'
     // asked right on load, before any click
     navigator.geolocation.getCurrentPosition(() => {}, () => {})
     Notification.requestPermission().catch(() => {})

diff --git a/docs/de/ci.md b/docs/de/ci.md
@@ -8,7 +8,7 @@ npx spurlos https://staging.firma.de || echo "neue Spuren"
 
 Exit-Code `0` ohne roten Befund, `1` mit rotem Befund, `2`, wenn sich eine Seite nicht prüfen ließ oder der Aufruf falsch war (unbekannte Option, ungültige URL, unbekannte Sprache, mehr als eines von `--json`, `--html`, `--pdf`, `--sarif`, eines davon mit mehreren `-o`, eine Baseline, die sich nicht lesen lässt, eine Anmeldung für Adressen auf verschiedenen Servern, etwas anderes als ein Hostname bei `--own`) oder sich eine Datei von `-o` nicht schreiben ließ. Auch eine fehlende oder abgelehnte Anmeldung endet mit `2`, ebenso eine Seite, die den Aufruf mit `403` oder `429` abweist, und eine, die Chromium gar nicht öffnet, weil ihr Zertifikat ungültig ist oder ihr Server nur veraltete TLS-Versionen wie 1.0 und 1.1 anbietet; die Meldung sagt dann, woran es lag. Bei mehreren Adressen gilt der schlechteste Fall; die Berichte der Seiten, die sich prüfen ließen, schreibt spurlos trotzdem.
 
-Mit `--json` kommt das vollständige Ergebnis als JSON: `scan` enthält die Rohdaten (alle Anfragen samt übertragener Größe und dem, was sie vom Besucher tragen, Cookies, Speicher, ausgelesene Fingerprinting-Werte und Browser-Zugriffe samt Skript, die Grundlagen der Barrierefreiheit, die Breite von Seite und Fenster, `mobile: true` bei `--mobile`, Header, Zertifikat samt den Namen darin, Links, Formulare, eingebundene Dateien, die Hosts von `--own`), `results` je Prüfung ein Objekt mit `check` (`third-party`, `cookies`, `leaks`, `fingerprinting`, `access`, `legal`, `https`, `headers`, `resources`, `forms`, `disclosure`, `indexing`, `mobile`, `accessibility`), `level` (`green`, `yellow`, `red`) und den Befunden, `note` den Hinweis auf die fehlende Rechtsberatung. Server und Cookies, die zur Seite zu gehören scheinen, tragen `own` mit dem Grund (`option`, `certificate`, `name`, `platform`). Bei `third-party` stehen unter `selfHosted` die bekannten Dienste, die auf der eigenen Seite laufen. Bei mehreren Adressen ist es eine Liste solcher Objekte. Die roten Prüfungen etwa:
+Mit `--json` kommt das vollständige Ergebnis als JSON: `scan` enthält die Rohdaten (alle Anfragen samt übertragener Größe und dem, was sie vom Besucher tragen, Cookies, Speicher, ausgelesene Fingerprinting-Werte und Browser-Zugriffe samt Skript, die Grundlagen der Barrierefreiheit, die Breite von Seite und Fenster, `mobile: true` bei `--mobile`, Header, Zertifikat samt den Namen darin, Links, Formulare, eingebundene Dateien, die Hosts von `--own`), `results` je Prüfung ein Objekt mit `check` (`third-party`, `cookies`, `leaks`, `fingerprinting`, `access`, `legal`, `https`, `headers`, `resources`, `forms`, `disclosure`, `indexing`, `mobile`, `accessibility`), `level` (`green`, `yellow`, `red`) und den Befunden, `note` den Hinweis auf die fehlende Rechtsberatung. Server und Cookies, die zur Seite zu gehören scheinen, tragen `own` mit dem Grund (`option`, `certificate`, `name`, `platform`). Bei `third-party` stehen unter `selfHosted` die bekannten Dienste, die auf der eigenen Seite laufen, unter `consentMode` der Stand von Google Consent Mode. Bei mehreren Adressen ist es eine Liste solcher Objekte. Die roten Prüfungen etwa:
 
 ```
 npx spurlos https://staging.firma.de --json | jq -r '.results[] | select(.level == "red") | .check'

diff --git a/README.md b/README.md
@@ -14,7 +14,7 @@ Ruft eine Website so auf wie ein neuer Besucher, der noch nichts angeklickt hat,
 - ob **E-Mail-Adressen oder Werte aus der Adresse der Seite** an fremde Server gehen, etwa von einer Danke-Seite `/danke?email=…` an Analytics.
 - ob Skripte den Browser per **Fingerprinting** vermessen: Canvas, Grafikkarte über WebGL, Audio, die IP-Adresse über WebRTC. Das erkennt Besucher auch ohne Cookie wieder.
 - ob Skripte schon beim Laden **nach Standort, Kamera, Mikrofon oder Benachrichtigungen fragen** oder einen Service Worker registrieren.
-- welcher **Cookie-Banner** geladen wird, etwa Usercentrics, Cookiebot oder Borlabs, und ob Tracker trotzdem schon vorher laden.
+- welcher **Cookie-Banner** geladen wird, etwa Usercentrics, Cookiebot oder Borlabs, ob Tracker trotzdem schon vorher laden und ob Google Consent Mode vorab Zustimmung meldet.
 - ob **Impressum und Datenschutzerklärung** verlinkt sind und sich öffnen lassen.
 - ob **HTTPS** sauber eingerichtet ist: Zertifikat, Weiterleitung von http, HSTS.
 - welche **Sicherheits-Header** fehlen, und ob die Content-Security-Policy Skripte doch durchlässt.
@@ -89,7 +89,7 @@ spurlos selbst meldet nichts nach Hause: keine Telemetrie, keine Statistik. Ange
 
 | Prüfung | 🟢 | 🟡 | 🔴 |
 |---|---|---|---|
-| Fremde Server | keine | nur Cookie-Banner und Captchas (Kategorien `consent` und `captcha`): Die Seite braucht sie, sie erfahren die IP-Adresse trotzdem; dazu Server, die zur Seite zu gehören scheinen (`--own`, Zertifikat, Name), und die der Plattform, auf der sie läuft (Wix, Shopify, Squarespace, Webflow, IONOS MyWebsite) | mindestens eine Anfrage an eine andere Domain, die zu keinem Cookie-Banner, keinem Captcha und nicht zur Seite gehört |
+| Fremde Server | keine | nur Cookie-Banner und Captchas (Kategorien `consent` und `captcha`): Die Seite braucht sie, sie erfahren die IP-Adresse trotzdem; dazu Server, die zur Seite zu gehören scheinen (`--own`, Zertifikat, Name), und die der Plattform, auf der sie läuft (Wix, Shopify, Squarespace, Webflow, IONOS MyWebsite) | mindestens eine Anfrage an eine andere Domain, die zu keinem Cookie-Banner, keinem Captcha und nicht zur Seite gehört; Google Consent Mode meldet vor jedem Klick Zustimmung (`gcs=G101`, `G110`, `G111`) |
 | Cookies und Speicher | nichts gesetzt, oder nur bekannte Sitzungs- und Sicherheits-Cookies und solche, in denen der Cookie-Banner die Wahl speichert | eigene Cookies oder Einträge, die spurlos nicht kennt oder die zu einem Dienst wie einem Chat oder Zahlungsanbieter gehören; ein Cookie ohne `Secure` auf einer https-Seite; ein Sitzungs-Cookie ohne `HttpOnly`; ein Cookie, das länger als 13 Monate gilt | Cookie einer fremden Domain, die nicht zur Seite zu gehören scheint, oder eines bekannten Trackers |
 | Weitergegebene Daten | keine | ein Wert aus der Query der Seite (außer `utm_…` und Klick-IDs) geht an einen fremden Server, oder eine E-Mail-Adresse an einen Server, der zur Seite zu gehören scheint | eine E-Mail-Adresse geht an einen fremden Server |
 | Fingerprinting | kein Skript liest Canvas, Grafikkarte, Audio oder über WebRTC die IP-Adresse aus | ein eigenes Skript, ein Captcha oder ein Server, der zur Seite zu gehören scheint, liest sie aus | ein Skript einer fremden Domain liest sie aus |
